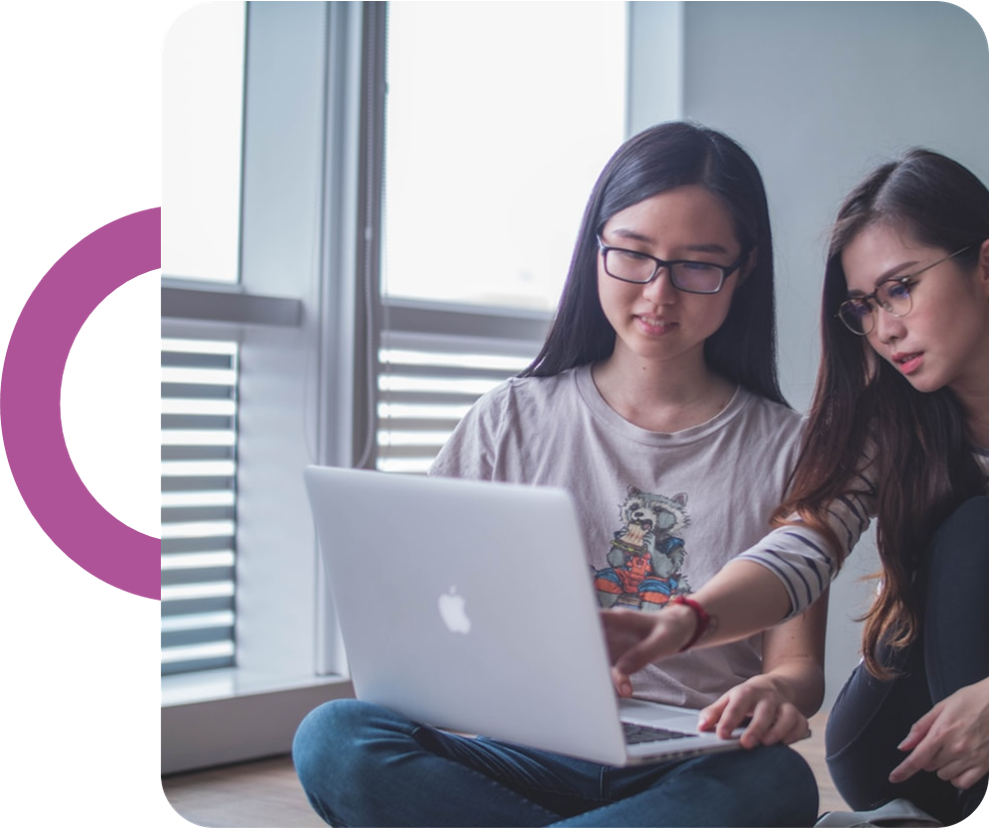
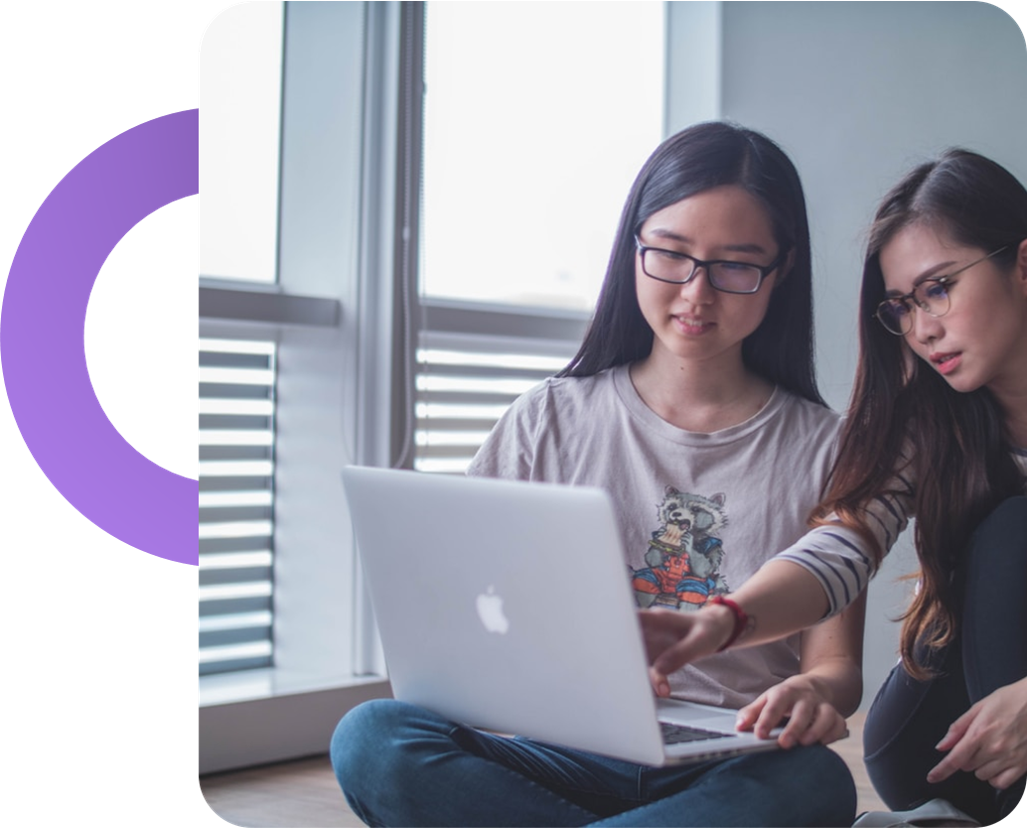
Third Commit

diff --git a/index.html b/index.html
@@ -44,6 +44,49 @@
             </div>
         </div>
     </section>
+
+    <section class="section3-4 flex">
+        <div class="padding-right">
+            <img id="picture-2" src=" /images/picture-2.png" alt="">
+        </div>
+        <div>
+            <h1 class="second-header">Develop<br> Without Limits</h1>
+            <p>Lorem ipsum dolor sit amet, usu cu esse possit referrentur, at eam falli
+                deterruisset. No duo populo animal noluisse, enim deterruisset eos et. An
+                mundi noster pri, ea eos quas expetendis scripserit, affert gubergren
+                dissentias et cum.</p>
+            <a href="https://google.com">Read the Documentation</a>
+        </div>
+    </section>
+
+    <section class="section3-4 flex">
+        <div class="padding-right">
+            <h1 class="second-header">Know our<br> Global Community</h1>
+            <p>Lorem ipsum dolor sit amet, usu cu esse possit referrentur, at eam falli
+                deterruisset. No duo populo animal noluisse, enim deterruisset eos et. An
+                mundi noster pri, ea eos quas expetendis scripserit, affert gubergren
+                dissentias et cum.</p>
+            <a href="https://google.com">Read the Documentation</a>
+        </div>
+        <div>
+            <img id="picture-2" src=" /images/picture-3.png" alt="">
+        </div>
+    </section>
+
+    <section class="section3-4 flex">
+        <h1>Build Corona Application</h1>
+        <div class="padding-right">
+            <img id="picture-2" src=" /images/picture-2.png" alt="">
+        </div>
+        <div>
+            <h1 class="second-header">Develop<br> Without Limits</h1>
+            <p>Lorem ipsum dolor sit amet, usu cu esse possit referrentur, at eam falli
+                deterruisset. No duo populo animal noluisse, enim deterruisset eos et. An
+                mundi noster pri, ea eos quas expetendis scripserit, affert gubergren
+                dissentias et cum.</p>
+            <a href="https://google.com">Read the Documentation</a>
+        </div>
+    </section>
 </body>
 
 </html>

diff --git a/style.css b/style.css
@@ -23,6 +23,9 @@ p{
     height: 200px;
     width: 200px;
 }
+.half-width{
+    width: 40%;
+}
 #section-2{
     padding: 10% 10%;
 }
@@ -43,4 +46,16 @@ p{
     margin: 1%;
     padding: 2%;
     border-radius: 30px;
+}
+.section3-4{
+    padding-left: 5%;
+    padding-right: 5%;
+    padding-top: 5%;
+}
+#picture-2{
+    height: 600px;
+    width: 700px;
+}
+.padding-right{
+    padding-right: 10%;
 }
